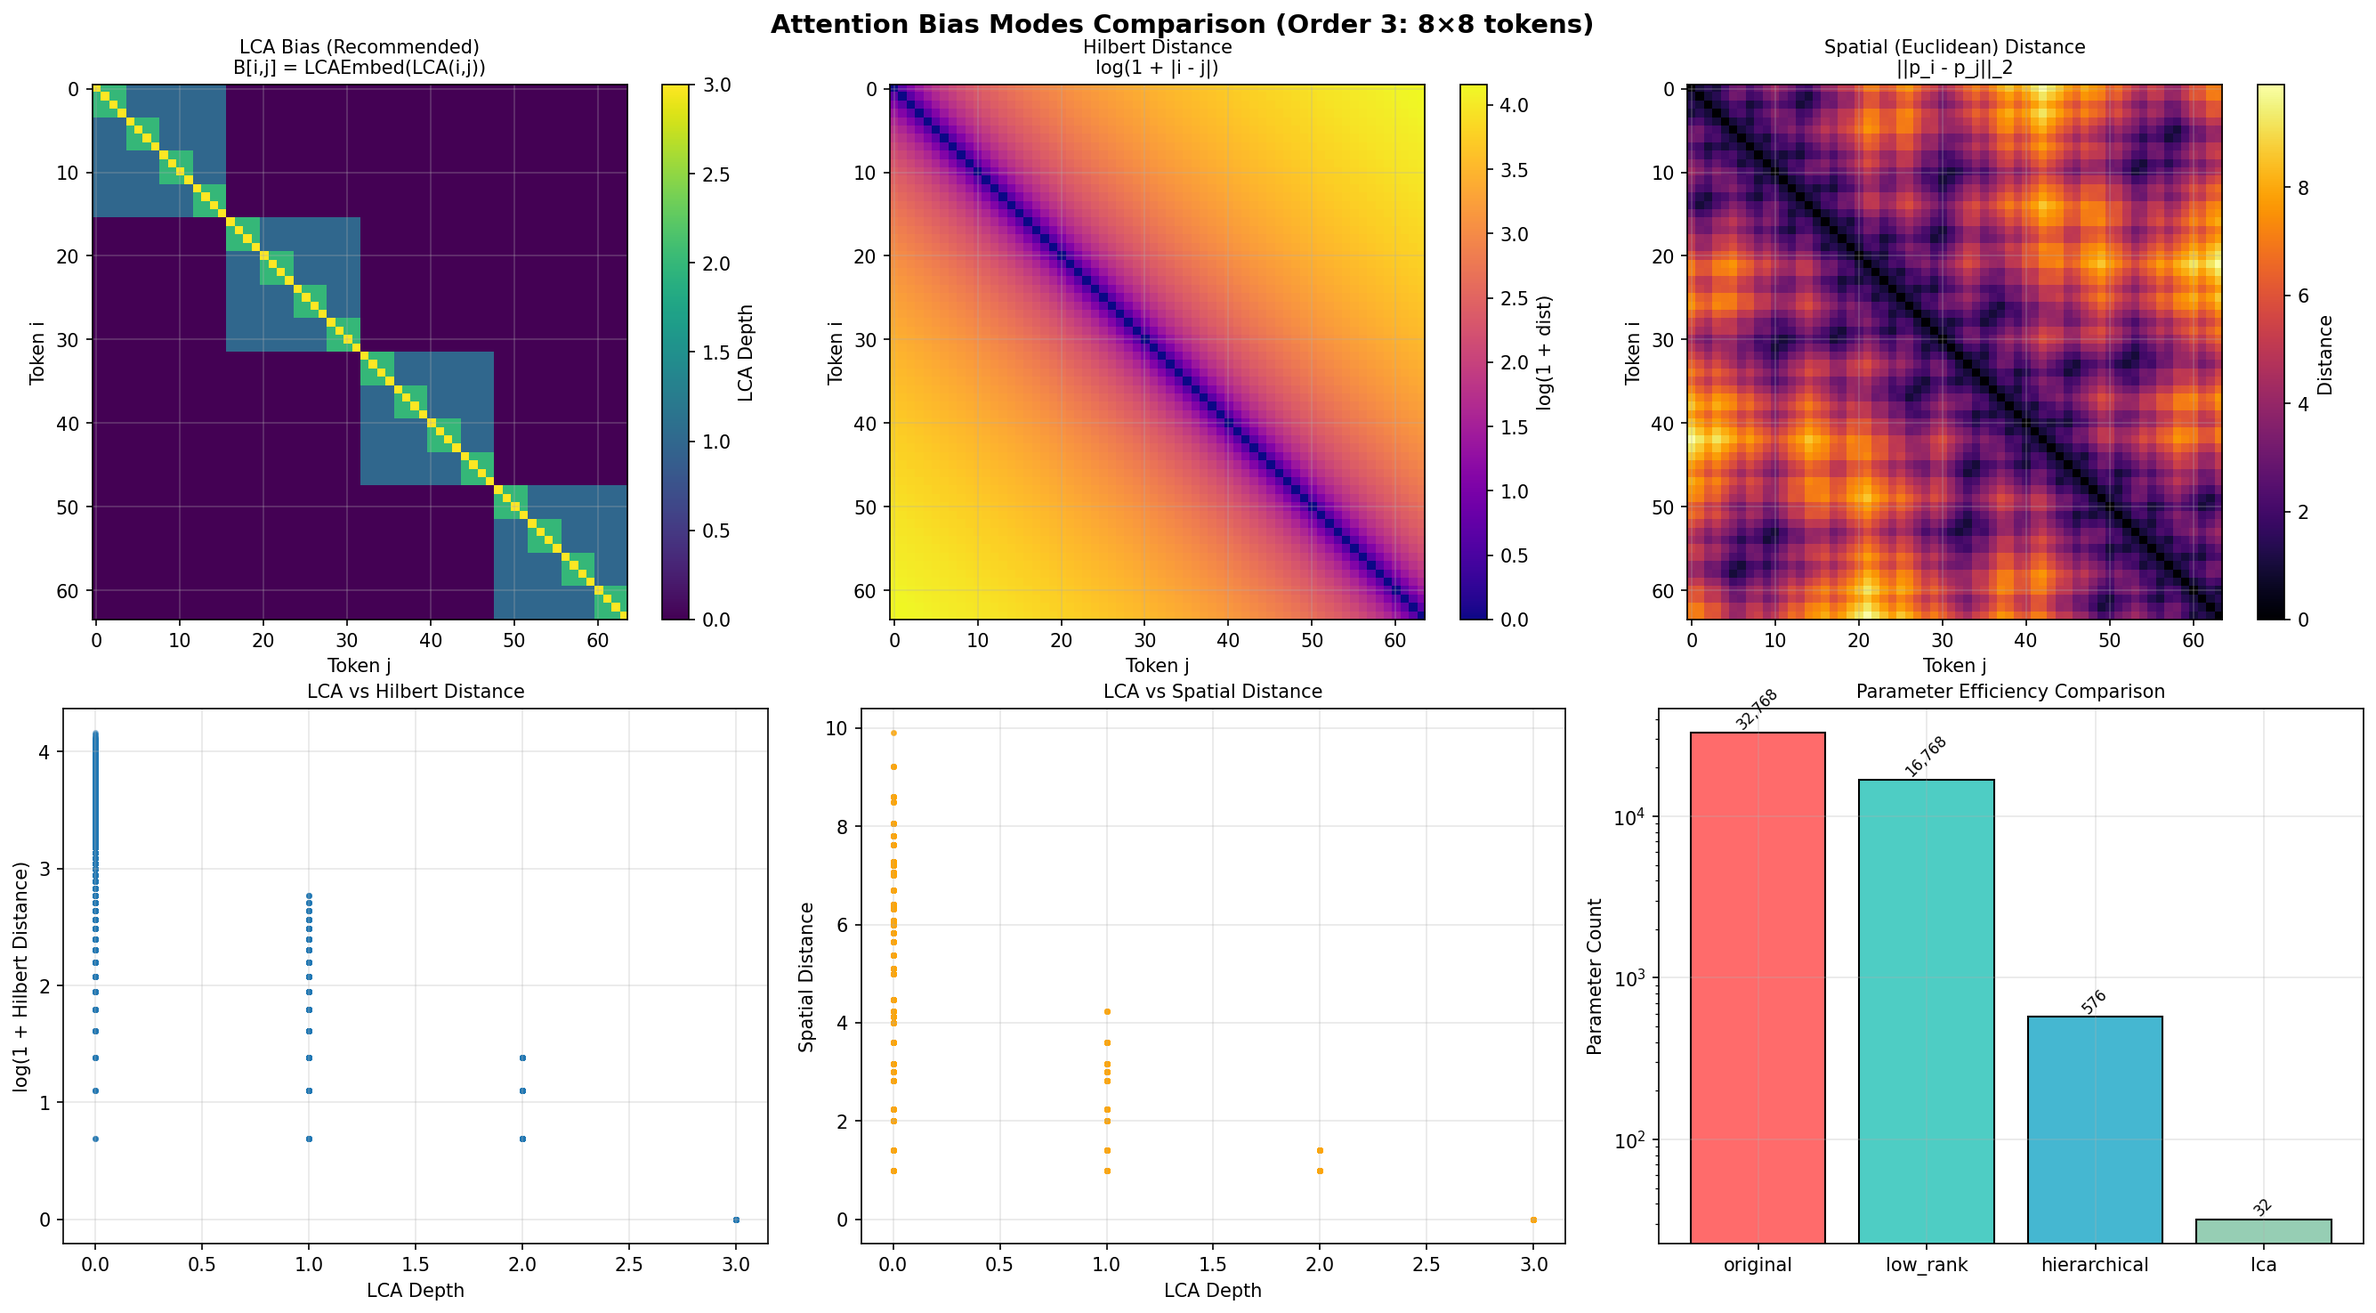
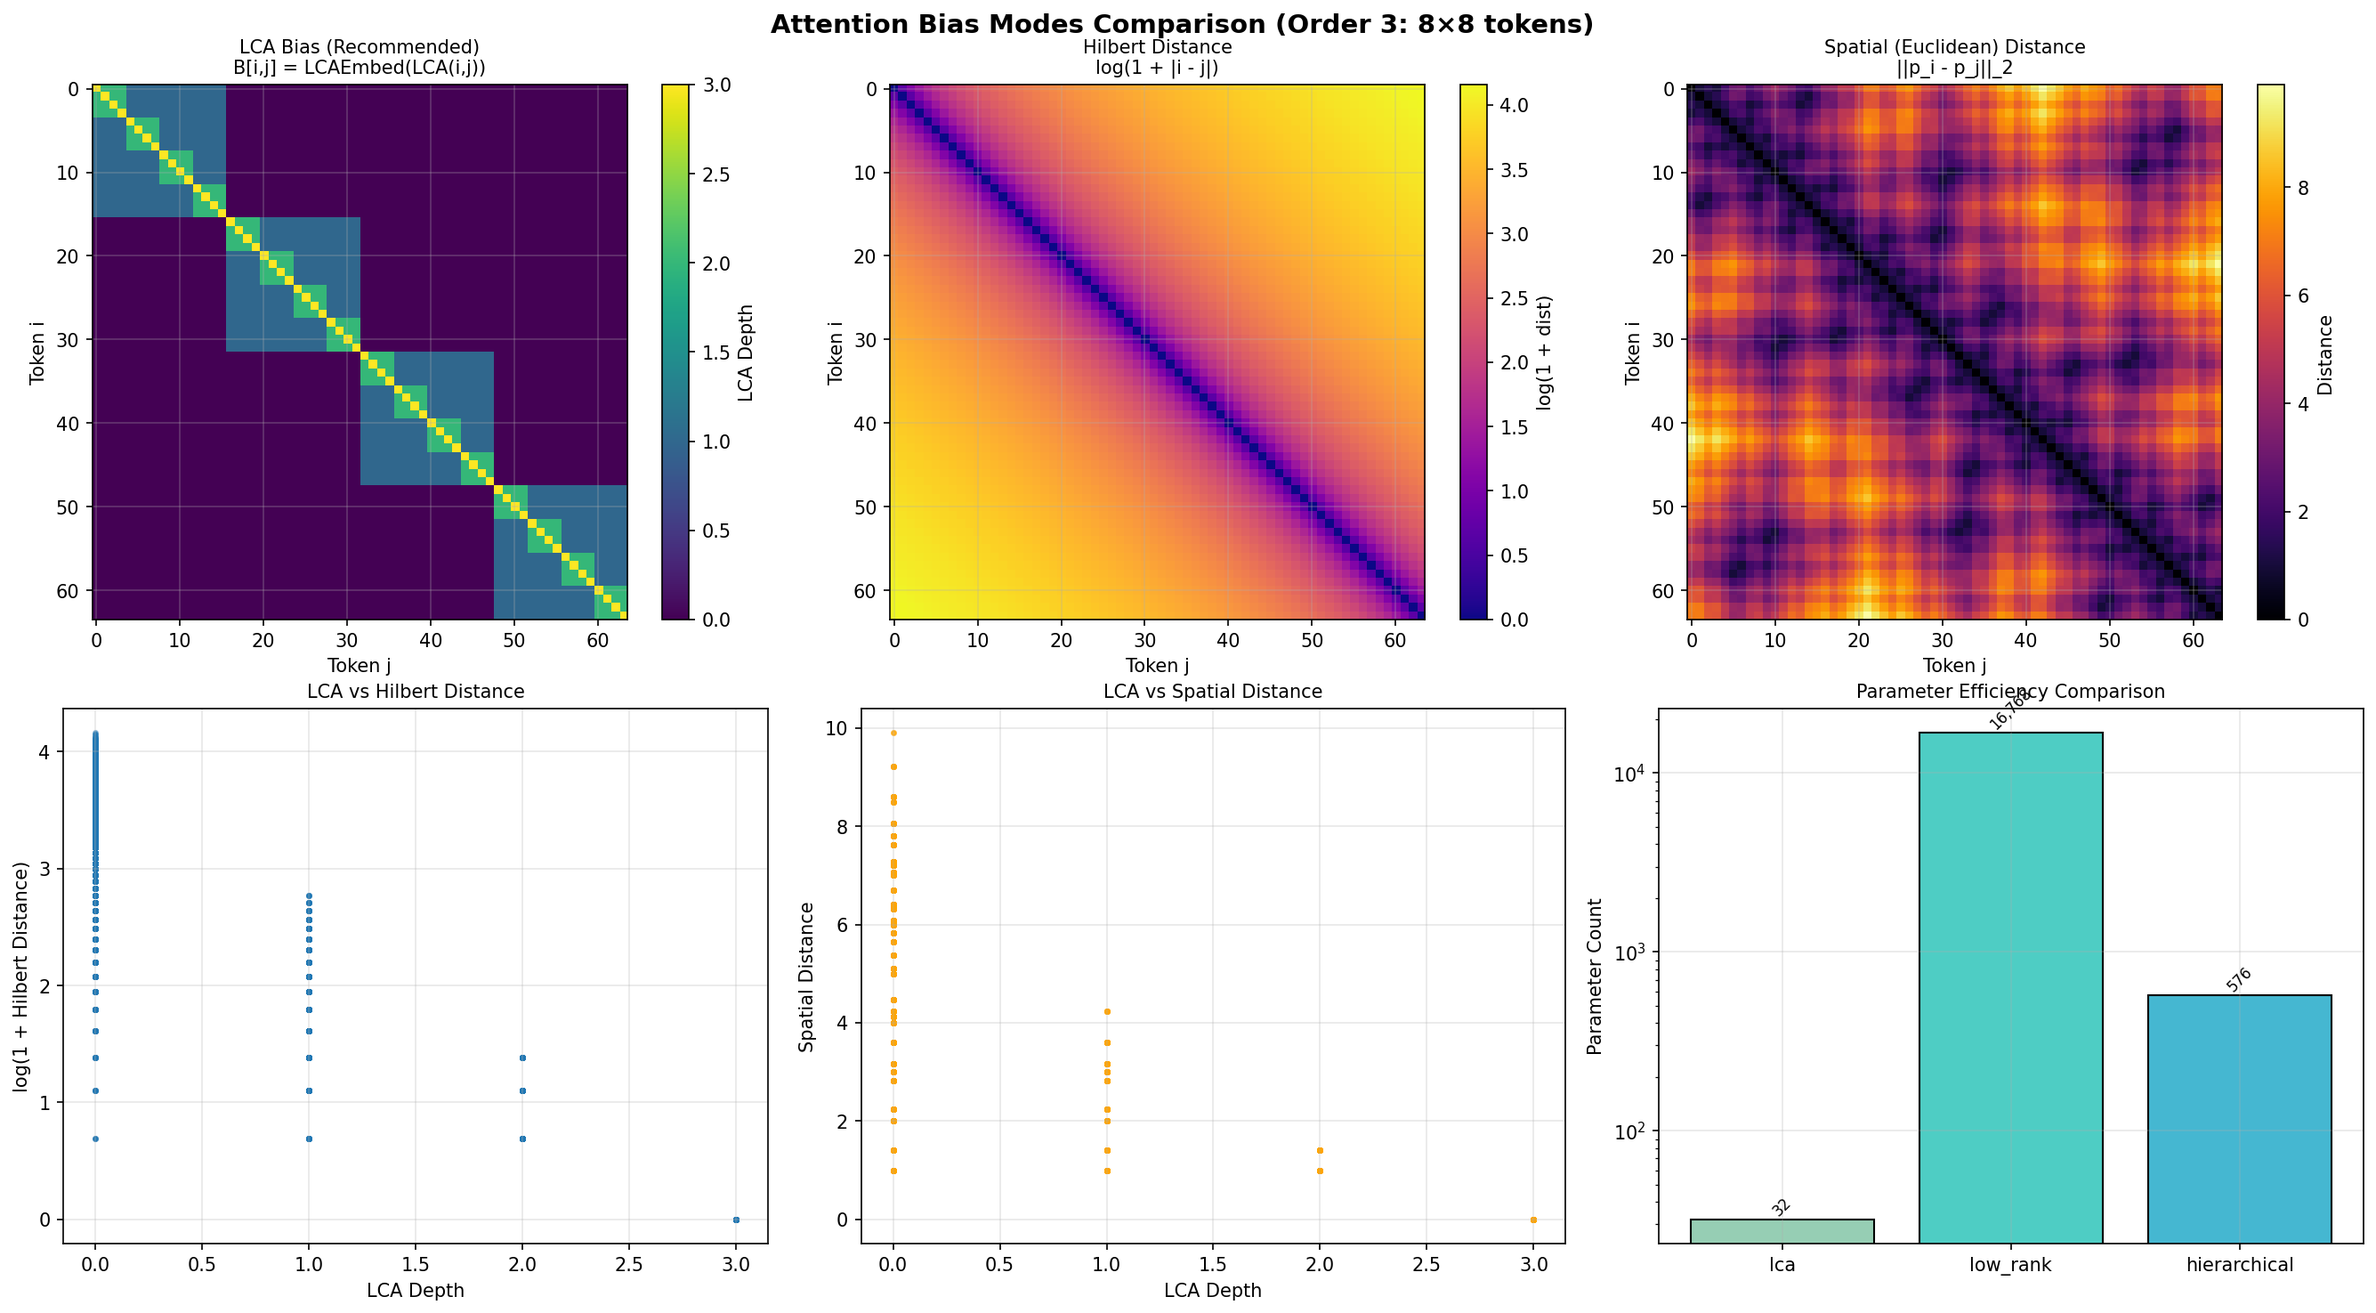
feat: 更新文档，添加 Cross-Scale Attention 相关内容，移除过时的 Gumbel-Softmax 视觉化

Changed region(s): [[0.6839, 0.5302, 0.9948, 0.9668]]

diff --git a/README.md b/README.md
@@ -29,7 +29,7 @@ Image (B, C, H, W)
        │
        ▼
 ┌──────────────────────────────┐
-│  StreamingFractalTokenizerV2 │  Multi-scale Conv + Gumbel-Softmax
+│  StreamingFractalTokenizerV3 │  Multi-scale Conv + Cross-Scale Attention
 │  └─ Hilbert Reordering       │
 └──────────────────────────────┘
        │
@@ -138,6 +138,15 @@ Hilbert curves map 2D grids to 1D sequences while **preserving spatial locality*
 <tr>
 <td width="50%">
 
+**Cross-Scale Attention (V3)**
+
+![Cross-Scale](workspace/visualizations/fractal_curves/cross_scale_attention.png)
+
+Dense gradient flow to all scales via softmax attention fusion.
+
+</td>
+<td width="50%">
+
 **LCA Attention Bias**
 
 ![LCA Bias](workspace/visualizations/fractal_curves/lca_bias_matrix.png)
@@ -145,27 +154,9 @@ Hilbert curves map 2D grids to 1D sequences while **preserving spatial locality*
 LCA (Lowest Common Ancestor) depth encodes hierarchical distance.
 
 </td>
-<td width="50%">
-
-**Gumbel-Softmax Scale Selection**
-
-![Gumbel](workspace/visualizations/fractal_curves/gumbel_softmax_decision.png)
-
-Differentiable discrete scale selection with temperature annealing.
-
-</td>
 </tr>
 <tr>
-<td width="50%">
-
-**Depth Bias Warmup**
-
-![Depth Bias](workspace/visualizations/fractal_curves/depth_bias_warmup.png)
-
-Progressive decay encourages fine-grained exploration early in training.
-
-</td>
-<td width="50%">
+<td colspan="2">
 
 **Attention Bias Comparison**
 
@@ -181,10 +172,10 @@ LCA bias is most parameter-efficient with explicit geometric meaning.
 
 | Layer  | Module                   | Key Class                              |
 | ------ | ------------------------ | -------------------------------------- |
-| **L4** | `fractal_vit.py`         | `FractalCurveViT`             |
-| **L3** | `streaming_tokenizer.py` | `StreamingFractalTokenizerV2`          |
+| **L4** | `fractal_vit.py`         | `FractalCurveViT`                      |
+| **L3** | `streaming_tokenizer.py` | `StreamingFractalTokenizerV3` (recommended) |
 |        | `transformer.py`         | `FractalTransformer`                   |
-| **L2** | `attention.py`           | `LCAHilbertBias`, `LowRankHilbertBias` |
+| **L2** | `attention.py`           | `LCAHilbertBias`, `CrossScaleAttention`|
 |        | `feedforward.py`         | `SwiGLUFFN`                            |
 |        | `positional.py`          | `FractalPositionEmbedding`             |
 | **L1** | `hilbert.py`             | `HilbertCurve`, `PseudoHilbertCurve`   |
@@ -195,7 +186,8 @@ LCA bias is most parameter-efficient with explicit geometric meaning.
 
 | Type           | Description                                    |
 | -------------- | ---------------------------------------------- |
-| `streaming_v2` | **Recommended.** Gumbel-Softmax adaptive scale |
+| `streaming_v3` | **Recommended.** Cross-Scale Attention fusion  |
+| `streaming_v2` | ⚠ Deprecated. Gumbel-Softmax adaptive scale   |
 | `streaming`    | Fixed multi-scale convolution                  |
 
 ### Attention Bias
@@ -237,12 +229,12 @@ uv run python examples/training/train_fractal_vit.py --quick-test
 
 ### Key Arguments
 
-| Argument           | Default        | Options                                         |
-| ------------------ | -------------- | ----------------------------------------------- |
-| `--tokenizer-type` | `streaming_v2` | `streaming_v2`, `streaming`                     |
-| `--bias-mode`      | `lca`          | `lca`, `low_rank`, `hierarchical`               |
-| `--ffn-type`       | `swiglu_level` | `swiglu_level`, `swiglu`, `gelu`                |
-| `--dataset`        | `cifar10`      | `cifar10`, `cifar100`, `mnist`, `tiny-imagenet` |
+| Argument           | Default        | Options                                              |
+| ------------------ | -------------- | ---------------------------------------------------- |
+| `--tokenizer-type` | `streaming_v3` | `streaming_v3`, `streaming_v2` (deprecated), `streaming` |
+| `--bias-mode`      | `lca`          | `lca`, `low_rank`, `hierarchical`                    |
+| `--ffn-type`       | `swiglu_level` | `swiglu_level`, `swiglu`, `gelu`                     |
+| `--dataset`        | `cifar10`      | `cifar10`, `cifar100`, `mnist`, `tiny-imagenet`      |
 
 ## Evaluation & Visualization
 
@@ -280,6 +272,18 @@ examples/training/
 ├── evaluate_and_visualize.py      # Evaluation
 └── visualize_fractal_curves.py    # Visualization
 ```
+
+## Documentation
+
+| Document | Description |
+| -------- | ----------- |
+| [Architecture Overview](documents/00_introduction.md) | Core concepts and design |
+| [Hilbert Curve](documents/01_hilbert_curve.md) | Hilbert curve theory |
+| [Fractal Tokenizer](documents/03_fractal_tokenizer.md) | Tokenizer implementation |
+| [Training System](documents/09_training_system.md) | Training guide |
+| [Testing & QA](documents/10_testing_qa.md) | Testing documentation |
+| [Improvement History](documents/11_issues_roadmap.md) | Development changelog |
+| [Improvement Plan](IMPROVEMENT_PLAN.md) | Future roadmap |
 
 ## License
 

diff --git a/README_zh.md b/README_zh.md
@@ -29,7 +29,7 @@ logits = model(img)  # (1, 1000)
        │
        ▼
 ┌──────────────────────────────┐
-│  StreamingFractalTokenizerV2 │  多尺度卷积 + Gumbel-Softmax
+│  StreamingFractalTokenizerV3 │  多尺度卷积 + Cross-Scale Attention
 │  └─ Hilbert 重排序           │
 └──────────────────────────────┘
        │
@@ -138,6 +138,15 @@ Hilbert 曲线将 2D 网格映射到 1D 序列，同时**保持空间局部性**
 <tr>
 <td width="50%">
 
+**Cross-Scale Attention (V3)**
+
+![Cross-Scale](workspace/visualizations/fractal_curves/cross_scale_attention.png)
+
+通过 softmax 注意力融合，对所有尺度实现密集梯度流。
+
+</td>
+<td width="50%">
+
 **LCA 注意力偏置**
 
 ![LCA 偏置](workspace/visualizations/fractal_curves/lca_bias_matrix.png)
@@ -145,27 +154,9 @@ Hilbert 曲线将 2D 网格映射到 1D 序列，同时**保持空间局部性**
 LCA（最低公共祖先）深度编码层级距离。
 
 </td>
-<td width="50%">
-
-**Gumbel-Softmax 尺度选择**
-
-![Gumbel](workspace/visualizations/fractal_curves/gumbel_softmax_decision.png)
-
-可微分的离散尺度选择，支持温度退火。
-
-</td>
 </tr>
 <tr>
-<td width="50%">
-
-**深度偏置预热**
-
-![深度偏置](workspace/visualizations/fractal_curves/depth_bias_warmup.png)
-
-渐进式衰减，在训练初期鼓励细粒度探索。
-
-</td>
-<td width="50%">
+<td colspan="2">
 
 **注意力偏置对比**
 
@@ -181,10 +172,10 @@ LCA 偏置参数最少，且具有明确的几何意义。
 
 | 层级     | 模块                       | 核心类                                    |
 | ------ | ------------------------ | -------------------------------------- |
-| **L4** | `fractal_vit.py`         | `FractalCurveViT`             |
-| **L3** | `streaming_tokenizer.py` | `StreamingFractalTokenizerV2`          |
+| **L4** | `fractal_vit.py`         | `FractalCurveViT`                      |
+| **L3** | `streaming_tokenizer.py` | `StreamingFractalTokenizerV3` (推荐)    |
 |        | `transformer.py`         | `FractalTransformer`                   |
-| **L2** | `attention.py`           | `LCAHilbertBias`, `LowRankHilbertBias` |
+| **L2** | `attention.py`           | `LCAHilbertBias`, `CrossScaleAttention`|
 |        | `feedforward.py`         | `SwiGLUFFN`                            |
 |        | `positional.py`          | `FractalPositionEmbedding`             |
 | **L1** | `hilbert.py`             | `HilbertCurve`, `PseudoHilbertCurve`   |
@@ -195,7 +186,8 @@ LCA 偏置参数最少，且具有明确的几何意义。
 
 | 类型             | 说明                          |
 | -------------- | --------------------------- |
-| `streaming_v2` | **推荐** Gumbel-Softmax 自适应尺度 |
+| `streaming_v3` | **推荐** Cross-Scale Attention 融合  |
+| `streaming_v2` | ⚠ 已废弃 Gumbel-Softmax 自适应尺度 |
 | `streaming`    | 固定多尺度卷积                     |
 
 ### 注意力偏置
@@ -237,12 +229,12 @@ uv run python examples/training/train_fractal_vit.py --quick-test
 
 ### 关键参数
 
-| 参数                 | 默认值            | 选项                                              |
-| ------------------ | -------------- | ----------------------------------------------- |
-| `--tokenizer-type` | `streaming_v2` | `streaming_v2`, `streaming`                     |
-| `--bias-mode`      | `lca`          | `lca`, `low_rank`, `hierarchical`               |
-| `--ffn-type`       | `swiglu_level` | `swiglu_level`, `swiglu`, `gelu`                |
-| `--dataset`        | `cifar10`      | `cifar10`, `cifar100`, `mnist`, `tiny-imagenet` |
+| 参数                 | 默认值            | 选项                                                    |
+| ------------------ | -------------- | ----------------------------------------------------- |
+| `--tokenizer-type` | `streaming_v3` | `streaming_v3`, `streaming_v2` (已废弃), `streaming`    |
+| `--bias-mode`      | `lca`          | `lca`, `low_rank`, `hierarchical`                     |
+| `--ffn-type`       | `swiglu_level` | `swiglu_level`, `swiglu`, `gelu`                      |
+| `--dataset`        | `cifar10`      | `cifar10`, `cifar100`, `mnist`, `tiny-imagenet`       |
 
 ## 评估与可视化
 
@@ -280,6 +272,18 @@ examples/training/
 ├── evaluate_and_visualize.py      # 评估
 └── visualize_fractal_curves.py    # 可视化
 ```
+
+## 文档
+
+| 文档 | 说明 |
+| ---- | ---- |
+| [架构概览](documents/00_introduction.md) | 核心概念与设计 |
+| [Hilbert 曲线](documents/01_hilbert_curve.md) | Hilbert 曲线理论 |
+| [分形分词器](documents/03_fractal_tokenizer.md) | Tokenizer 实现 |
+| [训练系统](documents/09_training_system.md) | 训练指南 |
+| [测试与 QA](documents/10_testing_qa.md) | 测试文档 |
+| [改进历史](documents/11_issues_roadmap.md) | 开发变更日志 |
+| [改进计划](IMPROVEMENT_PLAN.md) | 未来路线图 |
 
 ## 许可证
 

diff --git a/documents/11_issues_roadmap.md b/documents/11_issues_roadmap.md
@@ -1,6 +1,6 @@
 # 第十一章：项目改进历史
 
-> **最后更新**: 2025年12月19日 | **状态**: ✅ 持续更新
+> **最后更新**: 2025年12月23日 | **状态**: ✅ 持续更新
 
 ## 11.1 快速概览
 
@@ -10,8 +10,8 @@
 
 | 维度 | 改进前 | 改进后 | 提升 |
 |------|--------|--------|------|
-| **架构** | BFS + REINFORCE | Streaming + Gumbel-Softmax | 🚀 端到端可微 |
-| **训练稳定性** | 高方差 | 低方差 | 📈 显著提升 |
+| **架构** | Gumbel-Softmax (V2) | Cross-Scale Attention (V3) | 🚀 密集梯度流 |
+| **训练稳定性** | STE 稀疏梯度 | Softmax 全尺度梯度 | 📈 6.9× 梯度范数 |
 | **GPU 效率** | Python 循环瓶颈 | 全 GPU 执行 | 🚀 2-3x ↑ |
 | **测试覆盖** | ~50% | ~85% | ✅ 35% ↑ |
 | **技术债务** | 7 项 | 0 项 | ✨ 清零 |
@@ -32,12 +32,33 @@
 
 **结果**: 训练完全端到端可微，消除 Python 循环瓶颈，20 个单元测试通过
 
+### ARCH-CSA: Cross-Scale Attention V3 (2025-12-23) ✅
+
+**问题**: V2 Gumbel-Softmax STE 存在稀疏梯度问题，非选中尺度无法学习
+
+**解决方案**: 
+- 实现 `StreamingFractalTokenizerV3`: Cross-Scale Attention 架构
+- 实现 `CrossScaleAttention`: QKV + Scale Embedding 多尺度融合
+- 废弃 V2 (添加 DeprecationWarning)，V3 成为默认
+
+**核心改进**:
+| 问题 ID | 描述 | 解决方案 |
+|---------|------|----------|
+| VT-G1 | STE 非选中尺度无梯度 | Softmax 替代 argmax |
+| VT-G2 | 低温梯度消失 | 无温度参数 |
+| VT-A1 | 四叉树过度平滑 | 移除约束，Query 相似性自然平滑 |
+| VT-A2 | 最近邻上采样信息损失 | 双线性上采样 |
+| VT-T1 | 深度偏置固定调度 | 移除深度偏置调度 |
+
+**指标**: 输入梯度范数提升 6.9×，尺度梯度非零率 100%
+
 ### ARCH-P1: 废弃模块移除 (2025-12) ✅
 
 **操作**:
 - 已完全移除 `FractalHilbertTokenizer` 和 `EnhancedFractalTokenProcessor`
 - 已删除 `_deprecated/` 目录
 - 统一使用 Streaming Tokenizer 架构
+- V2 标记为 ⚠ Deprecated，建议使用 V3
 
 ---
 
@@ -80,6 +101,10 @@
 | P3-1 | 模块拆分并清理 (废弃模块已完全移除) | ✅ 2025-12-07 |
 | P3-2 | 工具函数统一 (extract_depths, normalize_levels_info) | ✅ 2025-12-07 |
 | P3-3 | 常量提取到 constants.py | ✅ 2025-12-08 |
+| P3-4 | 移除 `original` bias_mode | ✅ 2025-12-23 |
+| P3-5 | 向量化 LCA 批量计算 (3D 输入) | ✅ 2025-12-23 |
+| P3-6 | HilbertPathCache GPU 设备感知 | ✅ 2025-12-23 |
+| P3-7 | 完善类型提示 (98% 覆盖) | ✅ 2025-12-23 |
 
 ---
 
@@ -181,14 +206,16 @@
 
 ```
 Layer 4 (应用层):
-    fractal_vit.py          FractalCurveViT
+    fractal_vit.py          FractalCurveViT (默认 V3)
 
 Layer 3 (管道层):
-    streaming_tokenizer.py  StreamingFractalTokenizer, V2
+    streaming_tokenizer.py  StreamingFractalTokenizerV3 (推荐)
+                            StreamingFractalTokenizerV2 (⚠ 废弃)
     transformer.py          FractalTransformer
 
 Layer 2 (组件层):
     attention.py            HilbertAwareMultiScaleAttention
+    cross_scale.py          CrossScaleAttention (V3 专用)
     feedforward.py          SwiGLUFFN, AdaptiveFractalFeedForward
     positional.py           FractalPositionEmbedding
 
@@ -209,9 +236,9 @@ Layer 1 (基础层):
 |------|------|------|
 | ARCH-P2-2 | 性能基准测试 | P2 |
 | PERF-P1-3 | 动态 Token 剪枝 | P2 |
-| CRITICAL-6 | 硬编码魔法数字配置化 | P2 |
-| CRITICAL-7 | 完善类型提示 | P2 |
 | PERF-P2-* | Early Exit、知识蒸馏 | P3 |
+| FUTURE-1 | ImageNet 完整训练 | P3 |
+| FUTURE-2 | 检测/分割任务适配 | P3 |
 
 ---
 
@@ -275,6 +302,8 @@ Layer 1 (基础层):
 
 ## 11.13 长期目标
 
+- [x] ~~Cross-Scale Attention (V3)~~ ✅ 2025-12-23
+- [x] ~~P3 代码质量全部完成~~ ✅ 2025-12-23
 - [ ] ImageNet 完整训练
 - [ ] 检测/分割任务适配
 - [ ] 模型压缩与量化
@@ -292,7 +321,7 @@ Layer 1 (基础层):
 
 ---
 
-**项目状态**: ✅ 生产就绪 | **测试**: 167+ 通过 | **技术债务**: 4 项 (P2/P3)
+**项目状态**: ✅ 生产就绪 | **测试**: 278+ 通过 | **技术债务**: 0 项
 
 ---
 
@@ -401,12 +430,13 @@ $$\text{Effective} = (1 - \text{dropout})^{2L} \times (1 - \text{drop\_path})^L$
 
 | 类别 | 完成 | 总数 | 状态 |
 |------|------|------|------|
-| CRITICAL | 6 | 7 | 86% |
-| ARCH | 8 | 9 | 89% |
+| CRITICAL | 7 | 7 | ✅ 100% |
+| ARCH | 9 | 9 | ✅ 100% |
 | PERF-P0 | 4 | 4 | ✅ 100% |
 | PERF-P1 | 3 | 3 | ✅ 100% |
 | PERF-P2 | 0 | 3 | 待研究 |
-| **STABILITY** | **4** | **6** | 🟢 67% (P0/P1 完成) |
-| **TRAINING-P0** | **6** | **6** | ✅ **100%** (2025-12-23) |
-| P3 | 0 | 2 | 按需 |
-| **总计** | **31** | **40** | **78%** |
+| STABILITY | 4 | 6 | 🟢 67% |
+| TRAINING-P0 | 6 | 6 | ✅ 100% |
+| **P3 代码质量** | **4** | **4** | ✅ **100%** |
+| **Cross-Scale Attention** | **1** | **1** | ✅ **100%** |
+| **总计** | **38** | **43** | **88%** |
